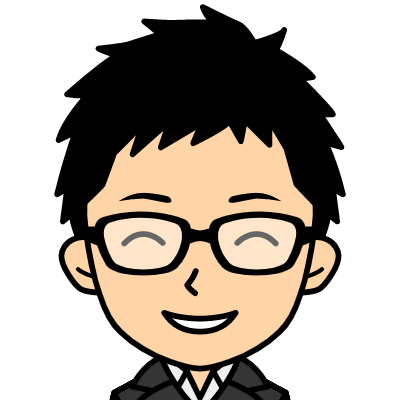
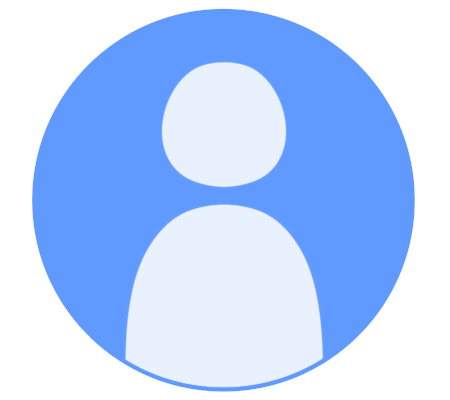
アバター画像を統一

diff --git a/resources/views/microposts/microposts.blade.php b/resources/views/microposts/microposts.blade.php
@@ -17,7 +17,8 @@
                     <div class="avatar">
                         <div class="w-12 rounded">
                             @if ($micropost->user->avatar_path === "default.png")
-                                <img src="{{ Gravatar::get($user->email, ['size' => 500]) }}" alt="">
+                                {{-- <img src="{{ Gravatar::get($user->email, ['size' => 500]) }}" alt=""> --}}
+                                <img src="{{ asset('avator/'.$micropost->user->avatar_path) }}" alt="Avatar Image">
                             @else
                                 <img src="{{ asset('storage/' . $micropost->user->avatar_path) }}" alt="Avatar">
                             @endif
@@ -207,13 +208,14 @@ function updateMicroposts(microposts) {
     var csrfToken = '{{ csrf_token() }}';
     var loggedInUserId = @json(auth()->id());
     var baseUrl = "{{ asset('storage/') }}";
+    var unbaseUrl = "{{ asset('avator/') }}";
     if(microposts.length === 0){
         $('.list-none').html('<p>Not Found Posts.</p>');
         return;
     }
     microposts.forEach(function(micropost) {
         var avatarPath = micropost.user.avatar_path === 'default.png' ?
-                         Gravatar.get(micropost.user.email, {size: 500}) :
+                         unbaseUrl + '/' +  micropost.user.avatar_path:
                          baseUrl + '/' + micropost.user.avatar_path;
         var favoriteButtonClass = micropost.is_favoriting ? 'btn-error' : 'btn-light';
         var deleteUrl = `/microposts/${micropost.id}`;
@@ -229,7 +231,7 @@ function updateMicroposts(microposts) {
                 <div>
                     <div>
                         <a class="link link-hover text-info" href="/users/${micropost.user.id}">${micropost.user.name}</a>
-                        <span class="text-muted text-gray-500">posted at ${micropost.created_at}</span>
+                        <span class="text-muted text-gray-500">posted at ${formattedDate}</span>
                     </div>
                     <div>
                         <div id="content-${micropost.id}" class="mb-0 markdown-content">${micropost.content}</div>
@@ -248,6 +250,7 @@ function updateMicroposts(microposts) {
         `;
     });
     $('.list-none').html(html);
+    // Set text content safely to avoid XSS
 }
 
 $(document).on('click', '.delete-btn', function() {

diff --git a/resources/views/microposts/favoriteposts.blade.php b/resources/views/microposts/favoriteposts.blade.php
@@ -7,7 +7,7 @@
                     <div class="avatar">
                         <div class="w-12 rounded">
                             @if ($micropost->user->avatar_path === "default.png")
-                                <img src="{{ Gravatar::get($user->email, ['size' => 500]) }}" alt="">
+                                <img src="{{ asset('avator/'.$micropost->user->avatar_path) }}" alt="Avatar Image">
                             @else
                                 <img src="{{ asset('storage/' . $micropost->user->avatar_path) }}" alt="Avatar">
                             @endif
@@ -177,13 +177,14 @@ function updateMicroposts(microposts) {
     var csrfToken = '{{ csrf_token() }}';
     var loggedInUserId = @json(auth()->id());
     var baseUrl = "{{ asset('storage/') }}";
+    var unbaseUrl = "{{ asset('avator/') }}";
     if(microposts.length === 0){
         $('.list-none').html('<p>There is no favorite posts.</p>');
         return;
     }
     microposts.forEach(function(micropost) {
         var avatarPath = micropost.user.avatar_path === 'default.png' ?
-                         Gravatar.get(micropost.user.email, {size: 500}) :
+                         unbaseUrl + '/' + micropost.user.avatar_path:
                          baseUrl + '/' + micropost.user.avatar_path;
         //var favoriteButtonClass = micropost.status ? 'btn-error' : 'btn-light';
         var favoriteButtonClass = 'btn-error';

diff --git a/resources/views/users/users.blade.php b/resources/views/users/users.blade.php
@@ -18,7 +18,7 @@
                     <div class="avatar">
                         <div class="w-12 rounded">
                             @if ($user->avatar_path === "default.png")
-                                <img src="{{ Gravatar::get($user->email, ['size' => 500]) }}" alt="">
+                                <img src="{{ asset('avator/'.$user->avatar_path) }}" alt="Avatar Image">
                             @else
                                 <img src="{{ asset('storage/' . $user->avatar_path) }}" alt="Avatar">
                             @endif
@@ -74,13 +74,15 @@ function updateUserLists(users) {
 
     var userList = $('#user-list');
     userList.empty();
+    
+    var unbaseUrl='{{ asset("avator/") }}/'
 
     if (!users || users.length === 0) {
         userList.append('<h1>Ops! there is no user.</h1>');
     } else {
         users.forEach(function(user) {
             var avatarPath = user.avatar_path === "default.png" ? 
-                'https://www.gravatar.com/avatar/' + md5(user.email.trim().toLowerCase()) + '?s=500' : 
+                unbaseUrl + '/' +  user.avatar_path : 
                 '{{ asset("storage/") }}/' + user.avatar_path;
 
             var userItem = `

diff --git a/resources/views/users/card.blade.php b/resources/views/users/card.blade.php
@@ -4,7 +4,7 @@
     </div>
     <figure>
         @if ($user->avatar_path === "default.png")
-            <img src="{{ Gravatar::get($user->email, ['size' => 500]) }}" alt="！画像が設定されていません！">
+            <img src="{{ asset('avator/' . $user->avatar_path) }}" alt="！画像が設定されていません！">
         @else
             <img src="{{ asset('storage/' . $user->avatar_path) }}" alt="！もし画像がうまく表示されなければ画像を再設定してください！">
         @endif

diff --git a/resources/views/layouts/app.blade.php b/resources/views/layouts/app.blade.php
@@ -8,6 +8,8 @@
         <link rel="stylesheet" href="{{ asset('/css/style.css') }}">
         @vite('resources/css/app.css')
         <script src="https://cdnjs.cloudflare.com/ajax/libs/moment.js/2.29.1/moment.min.js"></script>
+        <script src="https://cdn.jsdelivr.net/npm/gravatar@1.8.2/index.min.js"></script>
+        <script src="https://cdnjs.cloudflare.com/ajax/libs/crypto-js/4.0.0/crypto-js.min.js"></script>
         
 <style>
     .markdown-content h1 {
